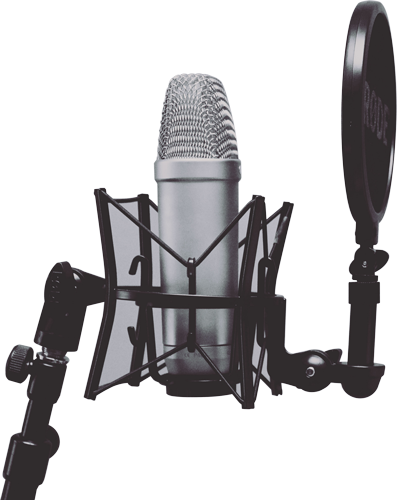
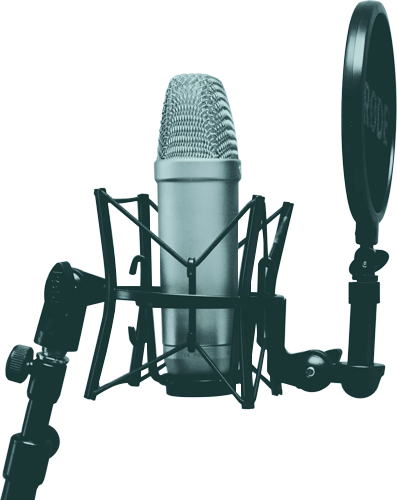
Oct 11 Updates

diff --git a/_sass/wrap.scss b/_sass/wrap.scss
@@ -33,7 +33,7 @@
   }
 
   &._pulp {
-    background-color: #e6e6e6;
+    background-color: #d1f0ee;
     @extend %wrap_block;
     border: 2px solid;
     padding-top: 24px;
@@ -52,7 +52,7 @@
   }
 
   &._client {
-    background-color: darken($bg,10%);
+    background-color: #bfdedc;
     padding: 10px;
   }
 

diff --git a/assets/css/styles.scss b/assets/css/styles.scss
@@ -31,6 +31,11 @@
     background: url('/assets/img/studio.jpg') no-repeat center;
     background-size: cover;
     @extend %img_flex;
+
+    @media#{$min960w} {
+      background: url('/assets/img/studio.jpg') no-repeat center -20px;
+      background-size: cover;
+    }
   }
 
   &._acting {

diff --git a/_sass/helpers.scss b/_sass/helpers.scss
@@ -1,5 +1,5 @@
 
-$bg: #ededed;
+$bg: #d9f6f5;
 
 $min440w:  'only screen and (min-width: 440px)';
 $min960w:  'only screen and (min-width: 960px)';

diff --git a/_sass/area.scss b/_sass/area.scss
@@ -6,7 +6,7 @@
   z-index: 2;
 
   &:nth-child(even) {
-    background-color: darken($bg,5%);
+    background-color: #cbeae8;
   }
 
   &._hero {

diff --git a/_sass/overlay.scss b/_sass/overlay.scss
@@ -1,4 +1,7 @@
 
 .overlay {
   @extend %overlay_block;
+  &._load {
+    background-color: $bg;
+  }
 }
